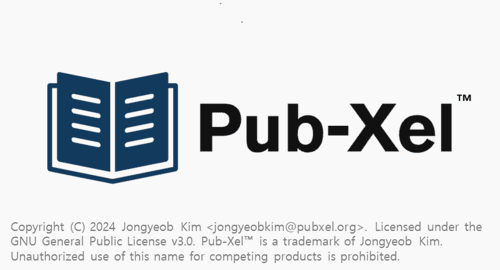
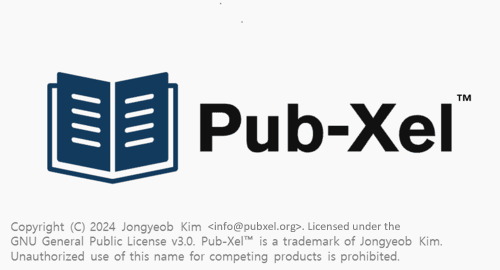
s

Changed region(s): [[0.42, 0.8296, 0.96, 0.8889]]

diff --git a/Pub-Xel.py b/Pub-Xel.py
@@ -1,5 +1,5 @@
 # Pub-Xel - A Biomedical Reference Management Tool
-# Copyright (C) 2024  Jongyeob Kim <jongyeobkim@pubxel.org>
+# Copyright (C) 2024  Jongyeob Kim <info@pubxel.org>
 #
 # This program is free software: you can redistribute it and/or modify
 # it under the terms of the GNU General Public License as published by
@@ -1084,6 +1084,8 @@ class window_inspect(QWidget):
         checked_main = [checkbox.text() for checkbox in self.checkboxes_main if checkbox.isChecked()]
         checked_suppl = [checkbox.text() for checkbox in self.checkboxes_suppl if checkbox.isChecked()]
         checked = checked_main + checked_suppl
+        if checked:
+            checked = [item.split(" : ")[0] for item in checked]
         result = self.export_files(checked)
         if result:
             self.close_inspect_window()     
@@ -1101,7 +1103,7 @@ class window_inspect(QWidget):
         
         def create_dated_folder(base_dir):
             today = datetime.datetime.today().strftime('%Y-%m-%d')
-            folder_name = "Pub-Xel exports "+today
+            folder_name = f"{today}"
             folder_path = os.path.join(base_dir, folder_name)
             counter = 2
 

diff --git a/mainfunctions.py b/mainfunctions.py
@@ -1,5 +1,5 @@
 # Pub-Xel - A Biomedical Reference Management Tool
-# Copyright (C) 2024  Jongyeob Kim <jongyeobkim@pubxel.org>
+# Copyright (C) 2024  Jongyeob Kim <info@pubxel.org>
 #
 # This program is free software: you can redistribute it and/or modify
 # it under the terms of the GNU General Public License as published by
